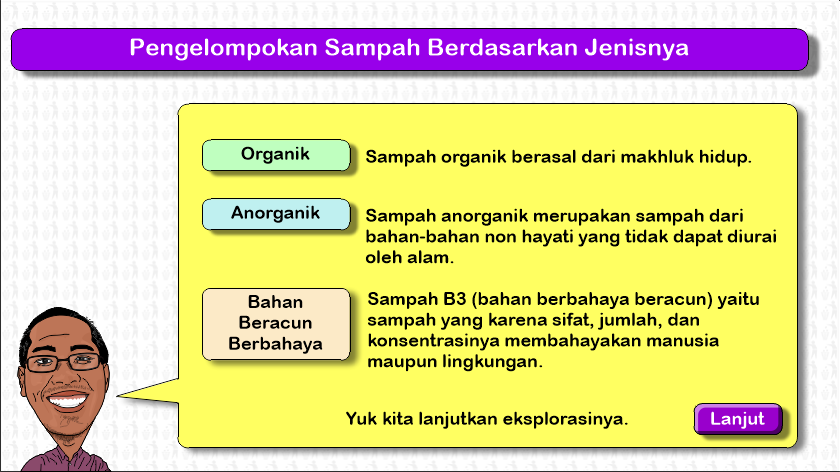
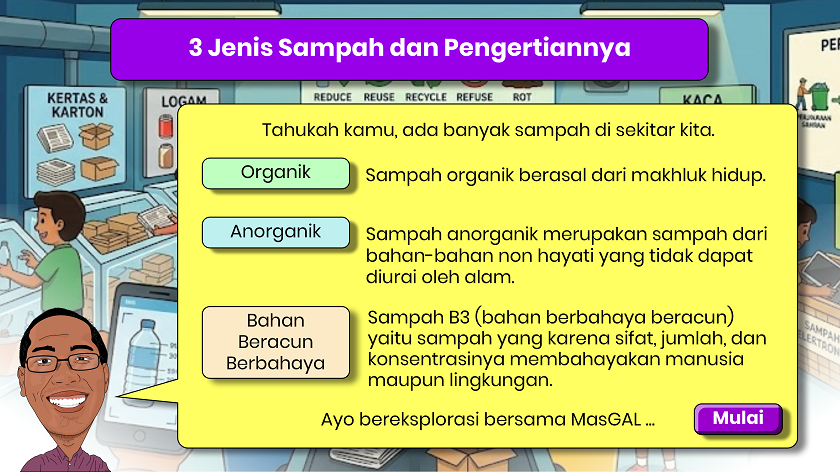
Add files via upload

diff --git a/interaktif2/Pengelompokkan.html b/interaktif2/Pengelompokkan.html
@@ -13,7 +13,10 @@
 			margin: 0 auto;
 			width: 100%;
 			height: 472px;
+			/*pointer-events: none;*/
 			position: absolute;
+			user-select: none;
+			-webkit-user-select: none;
 		} 
 		.areaDrop {
 			position: absolute;
@@ -187,7 +190,7 @@
 	<script>
 		var selectedEl = null;
 		const controller = new AbortController();
-		const { signal } = controller;
+		//const { signal } = controller;
 
         function selectElement(el) {
             UnselectElement(el)
@@ -211,12 +214,15 @@
 			var ymin = 0;
 			let startX=0, startY=0, initialX=0, initialY=0;
 			let newX=0, newY=0;
-			el.addEventListener('mousedown', dragMouseDown,{ signal });
-			el.addEventListener('touchstart', dragMouseDown,{ signal }, { passive: false });
+			//el.addEventListener('mousedown', dragMouseDown,{ signal });
+			//el.addEventListener('touchstart', dragMouseDown,{ signal }, { passive: false });
+			el.addEventListener('mousedown', dragMouseDown,{ signal: controller.signal });
+			el.addEventListener('touchstart', dragMouseDown,{ signal: controller.signal }, { passive: false });
 			
 			
 			el.ff = false;
             function dragMouseDown(e) {
+				console.log("masuk")
                 e.preventDefault();
                 selectElement(el);
 				if(e.type==="touchstart"){
@@ -236,6 +242,7 @@
 				}
 				dragText.innerHTML = "Nama Benda = "+el.name;
 				el.inbox = 0;
+				swapzindex(el.no)
             }
 
             function dragMouseMove(e) {
@@ -409,9 +416,19 @@
 			ARboximg[i-1].style.left = ''+(280*(i-1))+'px';
 			ARboximg[i-1].style.top = ''+(312)+'px';
 		}
-		
+		var arFIFO = [];
 		for (var i=1;i<=nn;i++){
+			arFIFO.push(ARimg[i-1]);
+			arFIFO[i-1].no = i-1;
 			setupDraggable(ARimg[i-1], myBG, areaDrop);
+		}
+		function swapzindex(no){
+			const potong = arFIFO.splice(no, 1)[0];
+			arFIFO.push(potong);
+			for (var i=1;i<=nn;i++){
+				arFIFO[i-1].no = i-1;
+				arFIFO[i-1].style.zIndex = ""+(arFIFO[i-1].no+200)+"";
+			}
 		}
 	</script>
 	<script>

diff --git a/interaktif2/Pembukaan.html b/interaktif2/Pembukaan.html
@@ -26,6 +26,27 @@
 			user-select: none;
 			-webkit-user-select: none;
 		}
+      .custom-select {
+			position: relative;
+			font-family: Arial, sans-serif;
+			width: 200px;
+		}
+
+		.custom-select select {
+			width: 100%;
+			padding: 10px 15px;
+			background-color: #f1f1f1;
+			border: 1px solid #ccc;
+			border-radius: 5px;
+			cursor: pointer;
+			font-size: 16px;
+			outline: none;
+		}
+
+		/* Efek saat menu diklik/hover */
+		.custom-select select:hover {
+			background-color: #e2e2e2;
+		}
 	</style>
 </head>
 <body>